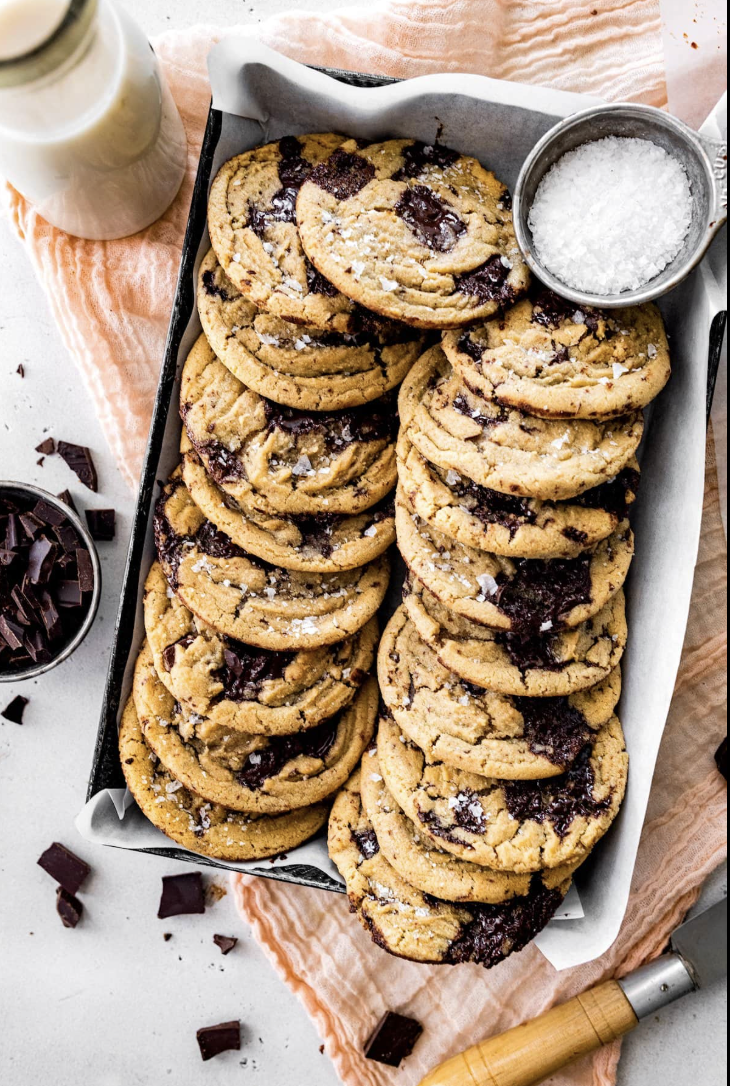
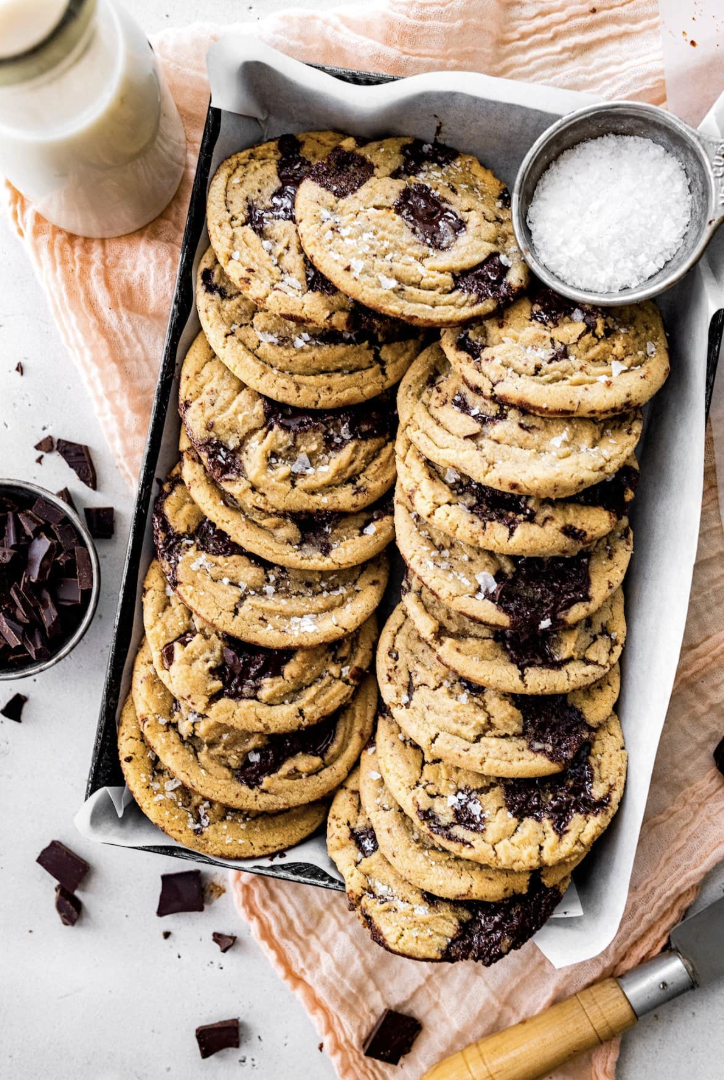
debug

diff --git a/404.html b/404.html
@@ -6,7 +6,7 @@
 <title>Page Not Found | Ruby's Table</title>
 <meta name="robots" content="noindex">
 <link rel="icon" type="image/svg+xml" href="favicon.svg">
-<link rel="stylesheet" href="css/style.css">
+<link rel="stylesheet" href="css/style.css?v=2">
 </head>
 <body>
 <header class="site-header">
@@ -24,6 +24,6 @@
     </div>
   </div>
 </main>
-<script src="js/main.js"></script>
+<script src="js/main.js?v=2"></script>
 </body>
 </html>

diff --git a/about.html b/about.html
@@ -17,7 +17,7 @@
 <meta name="twitter:description" content="Meet Ruby McClinton — a 7-year Charleston resident who turned her love of cooking into Ruby's Table.">
 <meta name="twitter:image" content="https://rubystable.com/images/og-image.svg">
 <link rel="icon" type="image/svg+xml" href="favicon.svg">
-<link rel="stylesheet" href="css/style.css">
+<link rel="stylesheet" href="css/style.css?v=2">
 </head>
 <body>
 <a class="skip-link" href="#main">Skip to content</a>
@@ -144,6 +144,6 @@
   </div>
 </footer>
 
-<script src="js/main.js"></script>
+<script src="js/main.js?v=2"></script>
 </body>
 </html>

diff --git a/contact.html b/contact.html
@@ -17,7 +17,7 @@
 <meta name="twitter:description" content="Request catering from Ruby's Table — send an inquiry or text 828.772.4255.">
 <meta name="twitter:image" content="https://rubystable.com/images/og-image.svg">
 <link rel="icon" type="image/svg+xml" href="favicon.svg">
-<link rel="stylesheet" href="css/style.css">
+<link rel="stylesheet" href="css/style.css?v=2">
 </head>
 <body>
 <a class="skip-link" href="#main">Skip to content</a>
@@ -211,6 +211,6 @@
   </div>
 </footer>
 
-<script src="js/main.js"></script>
+<script src="js/main.js?v=2"></script>
 </body>
 </html>

diff --git a/delivery.html b/delivery.html
@@ -17,7 +17,7 @@
 <meta name="twitter:description" content="Delivery area, pickup, lead time, payment, fees, and allergy information for Ruby's Table catering.">
 <meta name="twitter:image" content="https://rubystable.com/images/og-image.svg">
 <link rel="icon" type="image/svg+xml" href="favicon.svg">
-<link rel="stylesheet" href="css/style.css">
+<link rel="stylesheet" href="css/style.css?v=2">
 </head>
 <body>
 <a class="skip-link" href="#main">Skip to content</a>
@@ -157,6 +157,6 @@
   </div>
 </footer>
 
-<script src="js/main.js"></script>
+<script src="js/main.js?v=2"></script>
 </body>
 </html>

diff --git a/index.html b/index.html
@@ -17,7 +17,7 @@
 <meta name="twitter:description" content="Family-style meals, made to share — handmade pastas, salads, and desserts delivered to your door in Charleston, SC.">
 <meta name="twitter:image" content="https://rubystable.com/images/og-image.svg">
 <link rel="icon" type="image/svg+xml" href="favicon.svg">
-<link rel="stylesheet" href="css/style.css">
+<link rel="stylesheet" href="css/style.css?v=2">
 <script type="application/ld+json">
 {
   "@context": "https://schema.org",
@@ -258,6 +258,6 @@
   </div>
 </footer>
 
-<script src="js/main.js"></script>
+<script src="js/main.js?v=2"></script>
 </body>
 </html>

diff --git a/menu.html b/menu.html
@@ -17,7 +17,7 @@
 <meta name="twitter:description" content="Family-style pastas, salads, and desserts, with pricing for parties of 4 to 12.">
 <meta name="twitter:image" content="https://rubystable.com/images/og-image.svg">
 <link rel="icon" type="image/svg+xml" href="favicon.svg">
-<link rel="stylesheet" href="css/style.css">
+<link rel="stylesheet" href="css/style.css?v=2">
 <script type="application/ld+json">
 {
   "@context": "https://schema.org",
@@ -240,6 +240,6 @@
   </div>
 </footer>
 
-<script src="js/main.js"></script>
+<script src="js/main.js?v=2"></script>
 </body>
 </html>